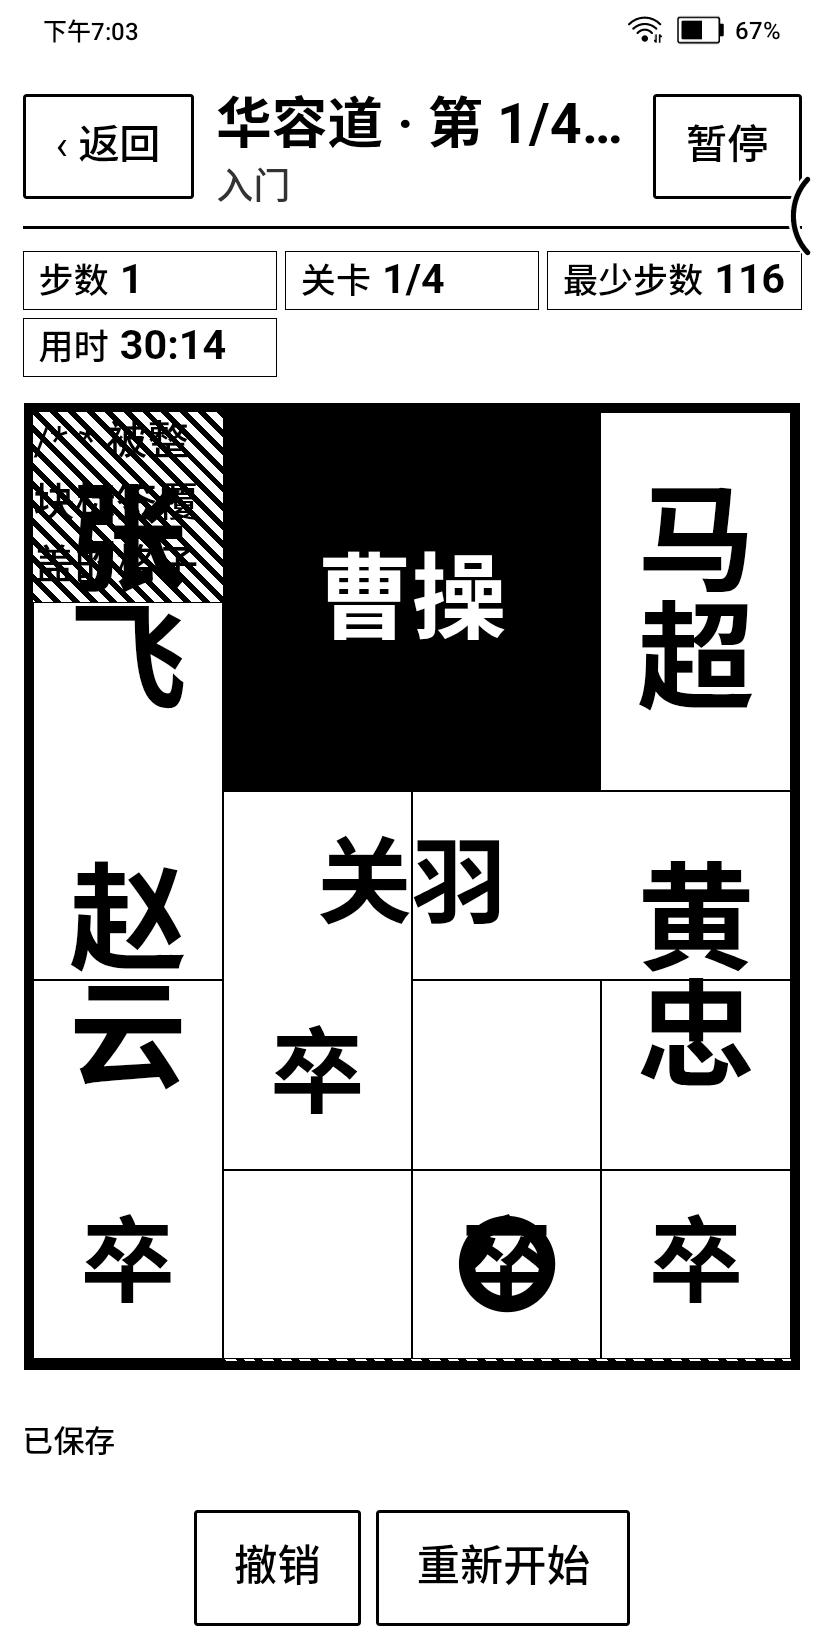
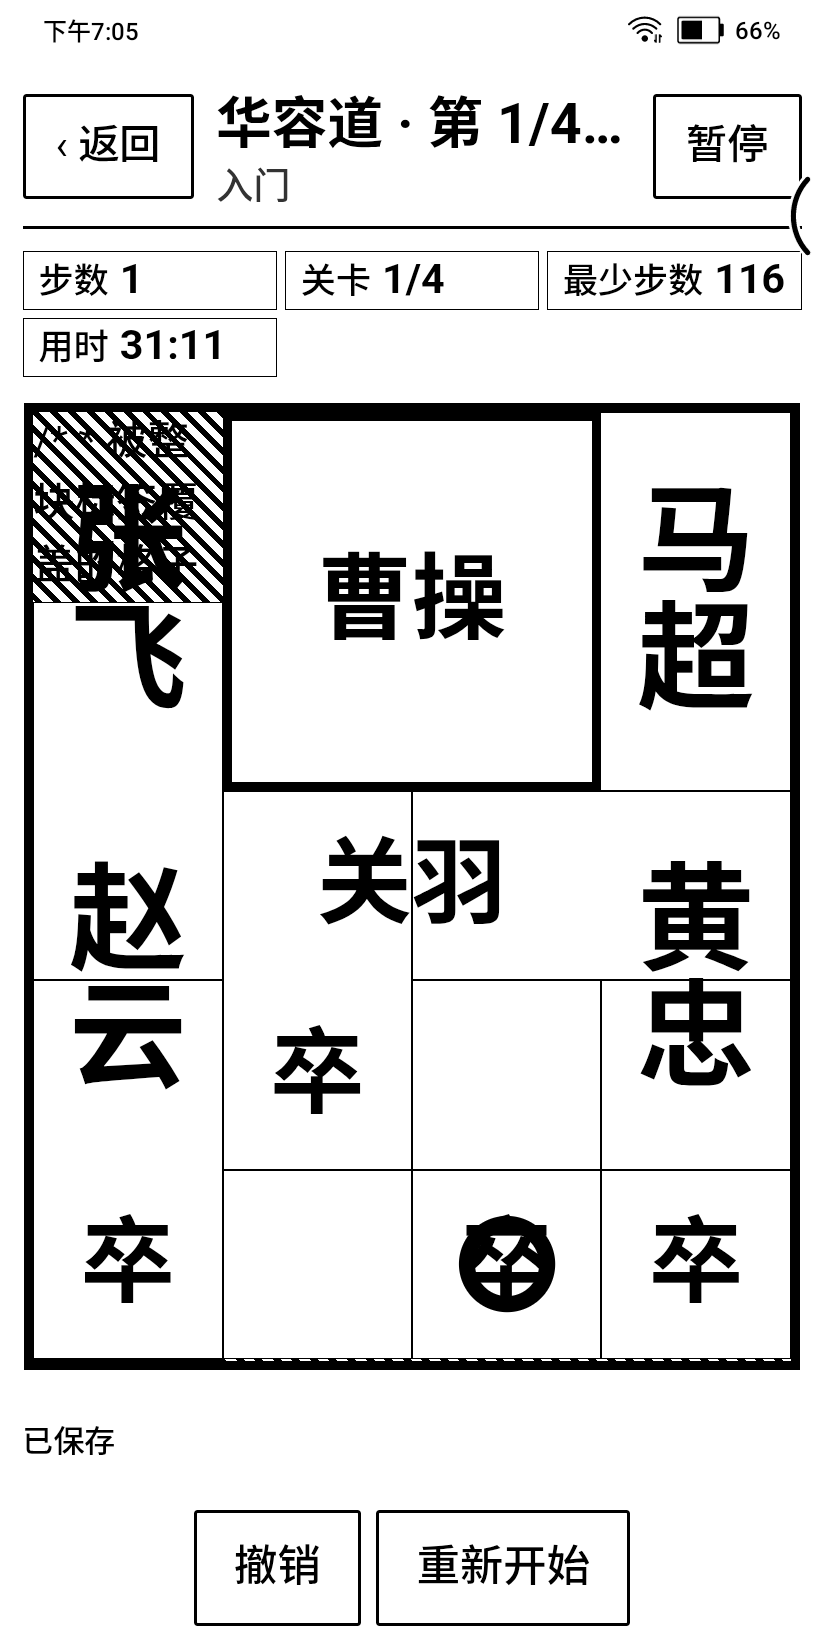
fix(klotski): 选中改为"反白 + 内框"（只反白会与相邻的黑色曹操粘成一整块）
真机截图逐次确认的两个坑：
1. 细 outline（3px）在 dpr 1.875 上落半像素 → 渲染成破碎斜纹（不像选中，还把整块切碎）；
2. 只反白不画框 → 被选中的白块变黑，**与相邻的黑色曹操连成一整块大黑块**（更糟）。

最终：选中 = 反白 + 白色内框（`border: 5px`，整数像素，与外框同宽）。
白框既给出明确的"选中"信号，又把相邻的两块黑分开；已反白的曹操选中时反过来（白底 + 黑框）。

真机实测（两台一致）：选中「张飞」→ 背景黑、字白、5px 白框。

diff --git a/packages/ui/src/styles.css b/packages/ui/src/styles.css
@@ -1385,14 +1385,26 @@ html[data-bold-lines='on'] .eink-board {
  * 反白是实心区域、边缘落在整数像素，墨水屏上绝对可靠；已反白的大块（曹操）则翻转成白底黑字，
  * 形成明确的"状态切换"而不是叠加一层线。
  */
+/*
+ * 选中 = 反白 + **一圈内框**。
+ *
+ * 两次踩坑后的结论（真机截图逐次确认）：
+ *  1. 细 outline（3px）在 dpr 1.875 下落在半像素上 → 渲染成破碎斜纹；
+ *  2. 只反白不画框 → 被选中的白块变黑，**与相邻的黑色曹操连成一整块大黑块**，更难看。
+ * 因此：反白 + 白色内框（`border`，整数像素）。白框既是"选中"的明确信号，
+ * 又把相邻的两块黑分开；已反白的曹操选中时则反过来（白底 + 黑框）。
+ * 内框宽度取 5px，与棋盘外框同宽（线宽层次里 5px 是"结构线"）。
+ */
 .eink-board__label[data-selected='yes'] {
   background: var(--ink-black);
   color: var(--ink-white);
+  border: 5px solid var(--ink-white);
+  box-sizing: border-box;
   outline: none;
 }
 
 .eink-board__label[data-selected='yes'][data-invert='yes'] {
   background: var(--ink-white);
   color: var(--ink-black);
-  box-shadow: inset 0 0 0 5px var(--ink-black);
+  border-color: var(--ink-black);
 }
